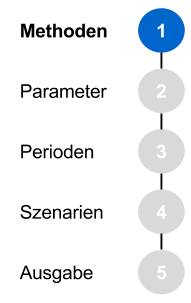
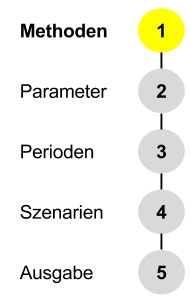
ProgressBar geändert; Methodenscreen nach Vorgaben angepasst; Periodenscreen bugfixing;

diff --git a/src/main/java/dhbw/ka/mwi/businesshorizon2/ui/methodscreen/MethodScreenViewImpl.java b/src/main/java/dhbw/ka/mwi/businesshorizon2/ui/methodscreen/MethodScreenViewImpl.java
@@ -36,7 +36,7 @@ public class MethodScreenViewImpl extends VerticalLayout implements MethodScreen
 
 	private static final long serialVersionUID = 1L;
 
-	private static final Logger logger = Logger.getLogger("ProjectDetailsViewImpl.class");
+	private static final Logger logger = Logger.getLogger("MethodScreenViewImpl.class");
 
 	@Autowired
 	private MethodScreenPresenter presenter;
@@ -125,12 +125,14 @@ public class MethodScreenViewImpl extends VerticalLayout implements MethodScreen
 		prognoseGroup.setItemCaption("sto", "Stochastische Eingabe");
 		prognoseGroup.setItemCaption("det", "Deterministische Eingabe");
 		prognoseGroup.setValue("sto");
+		prognoseGroup.setImmediate(true);
 		prognoseGroup.addListener(new Property.ValueChangeListener() {
 			
 			private static final long serialVersionUID = 1L;
 
 			@Override
 			public void valueChange(ValueChangeEvent event) {
+				logger.debug("ValueChangeEvent in Prognosemethode geworfen");
 				String method = (String) event.getProperty().getValue();
 				if(method.equals("sto")){
 					stochastic = true;
@@ -150,12 +152,14 @@ public class MethodScreenViewImpl extends VerticalLayout implements MethodScreen
 		eingabeGroup.setItemCaption(InputType.UMSATZKOSTENVERFAHREN, "UKV (Umsatzkostenverfahren)");
 		eingabeGroup.setItemCaption(InputType.GESAMTKOSTENVERFAHREN, "GKV (Gesamtkostenverfahren)");
 		eingabeGroup.setValue(InputType.DIRECT);
+		eingabeGroup.setImmediate(true);
 		eingabeGroup.addListener(new Property.ValueChangeListener() {
 			
 			private static final long serialVersionUID = 1L;
 
 			@Override
 			public void valueChange(ValueChangeEvent event) {
+				logger.debug("ValueChangeEvent in Eingabemethode geworfen");
 				presenter.setInputMethod((InputType)event.getProperty().getValue(), deterministic);
 				
 			}
@@ -168,6 +172,18 @@ public class MethodScreenViewImpl extends VerticalLayout implements MethodScreen
 		berechnungGroup.setItemCaption("fte", "FTE (Flow to Equity)");
 		berechnungGroup.setItemCaption("wac", "WACC (Weighted Average Cost of Capital)");
 		berechnungGroup.setValue("apv");
+		berechnungGroup.setImmediate(true);
+		berechnungGroup.addListener(new Property.ValueChangeListener() {
+			
+			private static final long serialVersionUID = 1L;
+
+			@Override
+			public void valueChange(ValueChangeEvent event) {
+				logger.debug("ValueChangeEvent in Berechnungsmethode geworfen");
+				switchRadiobuttonEnablement(event);
+				
+			}
+		});
 
 		prognoseForm.addField("prognoseGroup", prognoseGroup);
 		eingabeForm.addField("eingabeGroup", eingabeGroup);
@@ -175,9 +191,9 @@ public class MethodScreenViewImpl extends VerticalLayout implements MethodScreen
 
 		addComponent(prognoseForm);
 		addComponent(gap1);
-		addComponent(eingabeForm);
-		addComponent(gap2);
 		addComponent(berechnungForm);
+		addComponent(gap2);
+		addComponent(eingabeForm);
 		addComponent(gap3);
 		setExpandRatio(gap3, 1.0f);
 	}
@@ -228,6 +244,17 @@ public class MethodScreenViewImpl extends VerticalLayout implements MethodScreen
 		setEingabe();
 		setPrognose();
 		setBerechnung();
+	}
+
+	public void switchRadiobuttonEnablement(ValueChangeEvent event) {
+		if(event.getProperty().getValue().equals("fte")){
+			eingabeGroup.setItemEnabled(InputType.UMSATZKOSTENVERFAHREN, false);
+			eingabeGroup.setItemEnabled(InputType.GESAMTKOSTENVERFAHREN, false);
+			eingabeGroup.setValue(InputType.DIRECT);
+		}else{
+			eingabeGroup.setItemEnabled(InputType.UMSATZKOSTENVERFAHREN, true);
+			eingabeGroup.setItemEnabled(InputType.GESAMTKOSTENVERFAHREN, true);
+		}
 	}
 
 }

diff --git a/src/main/java/dhbw/ka/mwi/businesshorizon2/ui/periodscreen/direkteeingabe/DirektViewImpl.java b/src/main/java/dhbw/ka/mwi/businesshorizon2/ui/periodscreen/direkteeingabe/DirektViewImpl.java
@@ -25,6 +25,9 @@
 
 package dhbw.ka.mwi.businesshorizon2.ui.periodscreen.direkteeingabe;
 
+import java.util.Collection;
+import java.util.Iterator;
+
 import javax.annotation.PostConstruct;
 
 import org.apache.log4j.Logger;
@@ -112,28 +115,44 @@ public class DirektViewImpl extends VerticalLayout implements DirektViewInterfac
 	public void generateTable(){
 		
 		logger.debug("generateTable aufgerufen");
-		int pastPeriods = project.getSpecifiedPastPeriods();
+		int pastPeriods = project.getRelevantPastPeriods();
 		int baseYear = project.getBasisYear();
 		int pastYear = baseYear - pastPeriods;
 		int currYear = pastYear;
 		
+		Collection properties = inputTable.getContainerPropertyIds();
+		Iterator it = properties.iterator();
+		Object[] tempProp = new Object[properties.size()];
+		int a = 0;
+		while(it.hasNext()){
+			tempProp[a] = it.next();
+			a++;
+		}
+		for(Object o : tempProp){
+			logger.debug("Property "+o+" wurde entfernt");
+			inputTable.removeContainerProperty(o);
+		}
+		
 		inputTable.removeAllItems();
 
-		inputTable.addContainerProperty("", String.class, null);
+		inputTable.addContainerProperty("first", String.class, null);
+		inputTable.setColumnHeader("first", "");
 		for(int i = 0; i < pastPeriods; i++){
 			inputTable.addContainerProperty(currYear, TextField.class, null);
 			inputTable.setColumnAlignment(currYear, Table.ALIGN_CENTER);
 			currYear++;
+			logger.debug("Property "+currYear+" wurde hinzugefügt");
 		}
 		inputTable.addContainerProperty(baseYear, TextField.class, null);
+		inputTable.setColumnAlignment(baseYear, Table.ALIGN_CENTER);
 		
 		currYear = pastYear;
 		Object itemId = inputTable.addItem();
 		Item row1 = inputTable.getItem(itemId);
-		row1.getItemProperty("").setValue("Cashflow");
+		row1.getItemProperty("first").setValue("Cashflow");
 		itemId = inputTable.addItem();
 		Item row2 = inputTable.getItem(itemId);
-		row2.getItemProperty("").setValue("Bilanzwert Fremdkapital");
+		row2.getItemProperty("first").setValue("Bilanzwert Fremdkapital");
 		for(int i = 0; i < (pastPeriods + 1); i++){
 			TextField field1 = new TextField();
 			field1.setWidth(50, UNITS_PIXELS);

diff --git a/src/main/java/dhbw/ka/mwi/businesshorizon2/ui/initialscreen/InitialScreenPresenter.java b/src/main/java/dhbw/ka/mwi/businesshorizon2/ui/initialscreen/InitialScreenPresenter.java
@@ -70,6 +70,7 @@ import dhbw.ka.mwi.businesshorizon2.ui.parameterScreen.ParameterScreenViewInterf
 import dhbw.ka.mwi.businesshorizon2.ui.parameterScreen.input.ParameterInputViewInterface;
 import dhbw.ka.mwi.businesshorizon2.ui.periodscreen.PeriodScreenViewInterface;
 import dhbw.ka.mwi.businesshorizon2.ui.resultscreen.ResultScreenViewInterface;
+import dhbw.ka.mwi.businesshorizon2.ui.resultscreen.ShowOutputViewEvent;
 import dhbw.ka.mwi.businesshorizon2.ui.scenarioscreen.ScenarioScreenViewInterface;
 
 /**
@@ -326,6 +327,7 @@ public class InitialScreenPresenter extends Presenter<InitialScreenViewInterface
 			getView().setPageDescription("./images/icons/newIcons/1418775155_device_board_presentation_content_chart-128.png", "Schritt 5", "Ergebnisausgabe");
 			getView().setProgress("./images/progressBar/progress_5.png");
 			setScreen5Buttons();
+//			eventBus.fireEvent(new ShowOutputViewEvent());
 
 			break;
 

diff --git a/src/main/java/dhbw/ka/mwi/businesshorizon2/ui/resultscreen/ResultScreenPresenter.java b/src/main/java/dhbw/ka/mwi/businesshorizon2/ui/resultscreen/ResultScreenPresenter.java
@@ -348,8 +348,8 @@ public class ResultScreenPresenter extends ScreenPresenter<ResultScreenViewInter
 
 	@EventHandler
 	public void handleShowView(ShowOutputViewEvent event) {
-		eventBus.fireEvent(new ScreenSelectableEvent(NavigationSteps.OUTPUT,
-				true));
+//		eventBus.fireEvent(new ScreenSelectableEvent(NavigationSteps.OUTPUT,
+//				true));
 		logger.debug("ShowOutputViewEvent handled");
 	}
 
